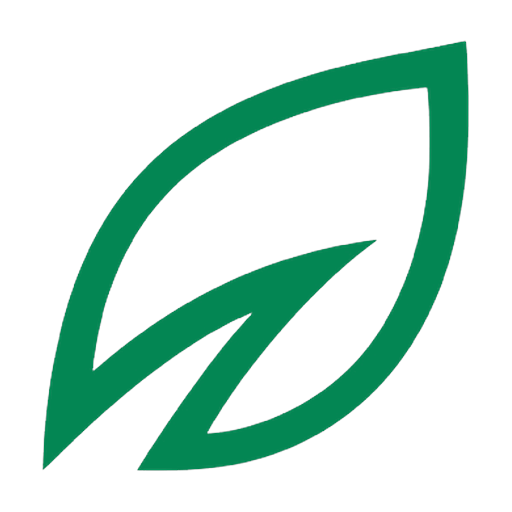
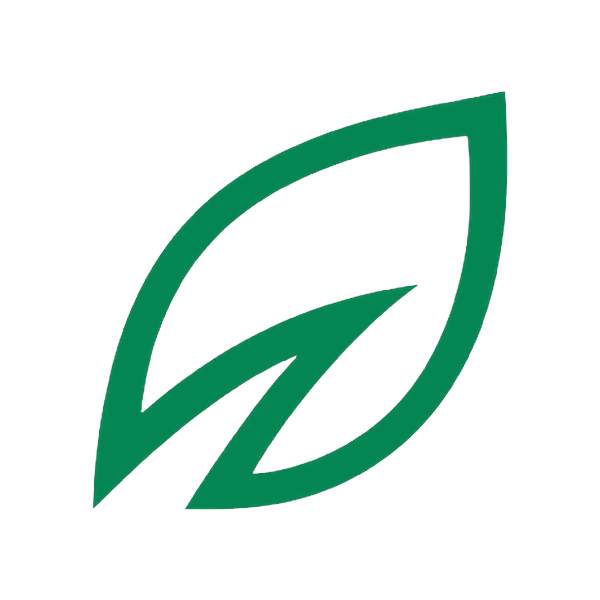
ada perbaikan utk shared web

diff --git a/src/app/layout.tsx b/src/app/layout.tsx
@@ -62,18 +62,18 @@ export const metadata: Metadata = {
     siteName: siteConfig.name,
     images: [
       {
-        url: "/images/og-image.png",
-        width: 1200,
-        height: 630,
-        alt: "AmanahZakat Peduli — Salurkan Zakat, Infak & Shodaqoh",
+        url: "/images/amanahzakat_icon.png",
+        width: 600,
+        height: 600,
+        alt: "AmanahZakat",
       },
     ],
   },
   twitter: {
-    card: "summary_large_image",
+    card: "summary",
     title: `${siteConfig.name} — ${siteConfig.tagline}`,
     description: siteConfig.description,
-    images: ["/images/og-image.png"],
+    images: ["/images/amanahzakat_icon.png"],
   },
   robots: {
     index: true,

diff --git a/src/config/site.ts b/src/config/site.ts
@@ -5,7 +5,7 @@ export const siteConfig = {
   description:
     "Portal publik resmi penerimaan ZIS, transparansi penyaluran, laporan dampak program kebaikan, dan pengajuan bantuan kemanusiaan AmanahZakat.",
   url: process.env.NEXT_PUBLIC_SITE_URL || "https://amanahzakat.id",
-  ogImage: "/images/og-image.png",
+  ogImage: "/images/amanahzakat_icon.png",
   support: {
     phone: "021-8899-7700",
     whatsapp: "0811-2100-900",
